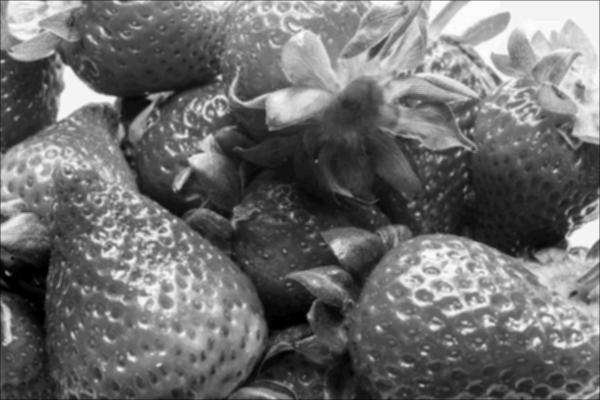
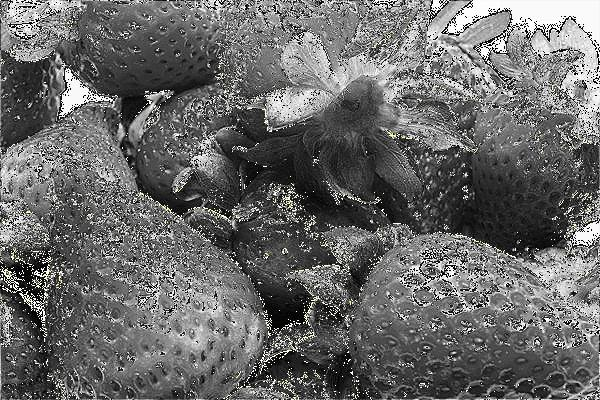
Tag6

diff --git a/src/main/java/Tag5/ProPra23_Verteilte_Systeme_Code/src/de/umr/ds/task2/EchoServer.java b/src/main/java/Tag5/ProPra23_Verteilte_Systeme_Code/src/de/umr/ds/task2/EchoServer.java
@@ -1,11 +1,92 @@
-package de.umr.ds.task2;
+package Tag5.ProPra23_Verteilte_Systeme_Code.src.de.umr.ds.task2;
 
 
-public class EchoServer {
+import java.io.*;
+import java.net.ServerSocket;
+import java.net.Socket;
+import java.util.Scanner;
+import java.util.concurrent.ExecutorService;
+import java.util.concurrent.Executors;
 
-	public static void main(String[] args) {
+public class EchoServer implements Runnable{
 
-		// TODO Task 2b)
+	int PORT = 12345;
+	ServerSocket serverSocket;
+	ExecutorService threadPoolExecutor = Executors.newFixedThreadPool(3);
 
+
+	EchoServer(){
+		System.out.println("Server: Created");
+		try {
+			serverSocket = new ServerSocket(PORT);
+		} catch (IOException e) {
+			e.printStackTrace();
+		}
+
+	}
+
+
+	@Override
+	public void run() {
+		System.out.println("Server: Start");
+		Socket socket = null;
+		while (true){
+			try {
+				socket = serverSocket.accept();
+			} catch (IOException e) {
+				e.printStackTrace();
+			}
+
+			if (socket != null){
+				System.out.println("Server: new socket detected!");
+				Socket finalSocket = socket;
+				threadPoolExecutor.submit(new Runnable() {
+					@Override
+					public void run() {
+						try {
+							//Server output
+							OutputStream outputStream = finalSocket.getOutputStream();
+							OutputStreamWriter outputStreamWriter = new OutputStreamWriter(outputStream);
+							PrintWriter printWriter = new PrintWriter(outputStreamWriter);
+
+							//Server input
+							InputStream inputStream = finalSocket.getInputStream();
+							InputStreamReader inputStreamReader = new InputStreamReader(inputStream);
+							BufferedReader bufferedReader = new BufferedReader(inputStreamReader);
+
+							String input;
+							String output;
+
+
+
+							input = bufferedReader.readLine();
+							output = "Eco: "  + input;
+							System.out.println("Server: in = " + input);
+
+							printWriter.println(output);
+							printWriter.flush();
+
+							finalSocket.close();
+
+						} catch (IOException e) {
+							e.printStackTrace();
+						}
+					}
+				});
+				socket = null;
+			}
+		}
+	}
+
+	public static void main(String[] args) throws IOException {
+		new Thread(new EchoServer()).start();
+	}
+
+	public void stop() {
+		try {
+			serverSocket.close();
+		} catch (IOException e) {
+			e.printStackTrace();
+		}
 	}
 }

diff --git a/src/main/java/Tag5/ProPra23_Verteilte_Systeme_Code/src/de/umr/ds/task3/Training.java b/src/main/java/Tag5/ProPra23_Verteilte_Systeme_Code/src/de/umr/ds/task3/Training.java
@@ -1,5 +1,9 @@
 package Tag5.ProPra23_Verteilte_Systeme_Code.src.de.umr.ds.task3;
 
+import java.util.ArrayList;
+import java.util.Collections;
+import Tag5.ProPra23_Verteilte_Systeme_Code.src.de.umr.ds.task3.Visualization;
+
 public class Training {
 
 	private static final double alpha = 0.05; // learning rate
@@ -12,16 +16,39 @@ public class Training {
 	 * @param perceptron the perceptron to train
 	 * @param dataset the training dataset
 	 */
-	private static void train(Perceptron perceptron, Dataset dataset) {
+	public static void train(Perceptron perceptron, Dataset dataset) {
+		ArrayList<DataPoint> dataPoints = dataset.getDataPoints();
+		int dataSize = dataPoints.size();
 
-		// TODO Task 3c)
+		for (int epoch = 0; epoch < epochs; epoch++) {
+			Collections.shuffle(dataPoints);
 
+			for (DataPoint dataPoint : dataPoints) {
+				Vector input = dataPoint.getInput();
+				int target = dataPoint.getLabel();
+				int prediction = perceptron.predict(input);
+
+				if (prediction != target) {
+					int delta = target - prediction;
+					Vector weightDelta = input.mult(alpha * delta);
+					double biasDelta = alpha * delta;
+
+					perceptron.updateWeights(weightDelta);
+					perceptron.updateBias(biasDelta);
+				}
+			}
+			double accuracy = Evaluation.accuracy(perceptron, dataset);
+			System.out.println("Epoch " + epoch + ": accuracy = " + accuracy);
+
+			Visualization.update(perceptron.getWeights(), perceptron.getBias(), epoch);
+		}
 	}
+
 
 	public static void main(String[] args) {
 
 		Dataset dataset = new Dataset(1000);
-		Perceptron perceptron = new Perceptron();
+		Perceptron perceptron = new Perceptron(2);
 		train(perceptron, dataset);
 
 	}

diff --git a/src/main/java/Tag5/ProPra23_Verteilte_Systeme_Code/src/de/umr/ds/task3/Perceptron.java b/src/main/java/Tag5/ProPra23_Verteilte_Systeme_Code/src/de/umr/ds/task3/Perceptron.java
@@ -1,12 +1,26 @@
 package Tag5.ProPra23_Verteilte_Systeme_Code.src.de.umr.ds.task3;
 
+import java.util.Random;
+
 /**
  * A Perceptron holds weights and bias and can be applied to a data vector to
  * predict its class. Weights and bias are initialized randomly.
  */
 public class Perceptron {
 
-	// TODO Task 3b)
+	    private Vector weights;
+        private double bias;
+
+        public Perceptron(int inputDimension) {
+
+            double[] w = new double[inputDimension];
+            Random r = new Random();
+            for (int i = 0; i < inputDimension; i++) {
+                w[i] = r.nextDouble();
+            }
+            weights = new Vector(w);
+            bias = r.nextDouble();
+        }
 
 
     /**
@@ -17,8 +31,42 @@ public class Perceptron {
      */
     public int predict(Vector x) {
 
-        // TODO Task 3b)
-
-        return 0;
+        double res = weights.dot(x) + bias;
+        if (res > 0) {
+            return 1;
+        } else {
+            return 0;
+        }
     }
+
+    public Vector getWeights() {
+        return weights;
+    }
+
+public double getBias() {
+        return bias;
+    }
+
+    /**
+     * Update the weights of the perceptron.
+     *
+     * @param delta A vector of the same dimension as the weights
+     */
+    public void updateWeights(Vector delta) {
+        weights = weights.add(delta);
+
+
+
 }
+
+        /**
+        * Update the bias of the perceptron.
+        *
+        * @param delta A scalar
+        */
+        public void updateBias(double delta) {
+            bias += delta;
+        }
+    }
+
+

diff --git a/src/main/java/Tag5/ProPra23_Verteilte_Systeme_Code/src/de/umr/ds/task1/ImageProcessing.java b/src/main/java/Tag5/ProPra23_Verteilte_Systeme_Code/src/de/umr/ds/task1/ImageProcessing.java
@@ -7,9 +7,10 @@ import java.io.File;
 import java.io.IOException;
 import javax.imageio.ImageIO;
 import java.awt.image.WritableRaster;
+import java.io.File;
+import java.io.IOException;
 
-import static Tag5.ProPra23_Verteilte_Systeme_Code.src.de.umr.ds.task1.Kernels.BoxBlur3x3;
-import static Tag5.ProPra23_Verteilte_Systeme_Code.src.de.umr.ds.task1.Kernels.Relief;
+import static Tag5.ProPra23_Verteilte_Systeme_Code.src.de.umr.ds.task1.Kernels.*;
 
 public class ImageProcessing {
 
@@ -119,12 +120,13 @@ public class ImageProcessing {
 	public static void main(String[] args) {
 try {
 			// Load image
-			BufferedImage img = loadImage("C:\\Users\\tamma\\Desktop\\ProgramierPraktikum\\src\\main\\java\\Tag5\\ProPra23_Verteilte_Systeme_Code\\example.jpg");
-			filter(convertToBufferedImage(convertToGrayScaleArray(img)), BoxBlur3x3());
+			BufferedImage img = loadImage("C:\\Users\\tamma\\Desktop\\ProgrammierPraktikum\\src\\main\\java\\Tag5\\ProPra23_Verteilte_Systeme_Code\\example.jpg");
+			filter(convertToBufferedImage(convertToGrayScaleArray(img)), Sharpen());
 
 
 			// Save image
-			saveImage(filter(convertToBufferedImage(convertToGrayScaleArray(img)), BoxBlur3x3()), "C:\\Users\\tamma\\Desktop\\ProgramierPraktikum\\src\\main\\java\\Tag5\\ProPra23_Verteilte_Systeme_Code\\exampleFiltered.jpg");
+
+			saveImage(filter(convertToBufferedImage(convertToGrayScaleArray(img)), Sharpen()), "C:\\Users\\tamma\\Desktop\\ProgrammierPraktikum\\src\\main\\java\\Tag5\\ProPra23_Verteilte_Systeme_Code\\exampleFiltered.jpg");
 
 		}
 		catch (IOException e) {

diff --git a/src/main/java/Tag5/ProPra23_Verteilte_Systeme_Code/src/de/umr/ds/task3/Vector.java b/src/main/java/Tag5/ProPra23_Verteilte_Systeme_Code/src/de/umr/ds/task3/Vector.java
@@ -40,10 +40,11 @@ public class Vector {
 	 * @return The dot product between the two vectors
 	 */
 	public double dot(Vector v) {
+		double res = 0;
+		for (int i = 0; i < p.length; i++){
+			res += p[i] * v.p[i];}
+		return res;
 
-		// TODO Task 3a)
-
-		return 0;
 	}
 
 	/**
@@ -54,9 +55,12 @@ public class Vector {
 	 */
 	public Vector add(Vector v) {
 
-		// TODO Task 3a)
+		double[] res = new double[p.length];
+		for (int i = 0; i < p.length; i++){
+			res[i] = p[i] + v.p[i];
+		}
 
-		return null;
+		return new Vector(res);
 	}
 
 	/**
@@ -67,9 +71,12 @@ public class Vector {
 	 */
 	public Vector mult(double s) {
 
-		// TODO Task 3a)
+		double[] res = new double[p.length];
+		for (int i = 0; i < p.length; i++){
+			res[i] = p[i] * s;
+		}
 
-		return null;
+		return new Vector(res);
 	}
 
 }

diff --git a/src/main/java/Tag5/ProPra23_Verteilte_Systeme_Code/src/de/umr/ds/task3/Evaluation.java b/src/main/java/Tag5/ProPra23_Verteilte_Systeme_Code/src/de/umr/ds/task3/Evaluation.java
@@ -1,5 +1,7 @@
 package Tag5.ProPra23_Verteilte_Systeme_Code.src.de.umr.ds.task3;
 
+import java.util.ArrayList;
+
 public class Evaluation {
 
 	/**
@@ -9,10 +11,20 @@ public class Evaluation {
 	 * @return accuracy
 	 */
 	public static double accuracy(Perceptron model, Dataset dataset) {
+
+		ArrayList<DataPoint> dataPoints = dataset.getDataPoints();
+		int correct = 0;
+
+		for (DataPoint dataPoint : dataPoints) {
+			Vector input = dataPoint.getInput();
+			int target = dataPoint.getLabel();
+			int prediction = model.predict(input);
+			if (prediction == target) {
+				correct++;
+			}
+		}
 		
-		// TODO Task 3d)
-		
-		return 0;
+		return (double) correct / dataPoints.size();
 	}
 
 }

diff --git a/src/main/java/Tag5/ProPra23_Verteilte_Systeme_Code/src/de/umr/ds/task3/Visualization.java b/src/main/java/Tag5/ProPra23_Verteilte_Systeme_Code/src/de/umr/ds/task3/Visualization.java
@@ -55,17 +55,18 @@ public class Visualization extends JFrame {
 	 * @param b     The bias of the perceptron
 	 * @param epoch The current epoch
 	 */
-	public void update(Vector w, double b, int epoch) {
-		this.w = w;
-		this.b = b;
-		this.epoch = epoch;
+	public static void update(Vector w, double b, int epoch) {
+Visualization v = new Visualization(new Dataset(1000), w, b);
+		v.w = w;
+		v.b = b;
+		v.epoch = epoch;
 		// wait
 		try {
 			TimeUnit.MILLISECONDS.sleep(delay);
 		} catch (InterruptedException e) {
 			e.printStackTrace();
 		}
-		this.repaint();
+		v.repaint();
 	}
 
 	private class PerceptronPlot extends JPanel {

diff --git a/src/main/java/Tag5/ProPra23_Verteilte_Systeme_Code/src/de/umr/ds/task3/Dataset.java b/src/main/java/Tag5/ProPra23_Verteilte_Systeme_Code/src/de/umr/ds/task3/Dataset.java
@@ -30,4 +30,8 @@ public class Dataset extends ArrayList<DataPoint> {
 			this.add(new DataPoint(label, x, y));
 		}
 	}
+
+	public ArrayList<DataPoint> getDataPoints() {
+		return this;
+	}
 }

diff --git a/src/main/java/Tag5/ProPra23_Verteilte_Systeme_Code/src/de/umr/ds/task3/DataPoint.java b/src/main/java/Tag5/ProPra23_Verteilte_Systeme_Code/src/de/umr/ds/task3/DataPoint.java
@@ -19,4 +19,8 @@ public class DataPoint extends Vector {
 		return label;
 	}
 
+	public Vector getInput() {
+		return this;
+	}
+
 }
